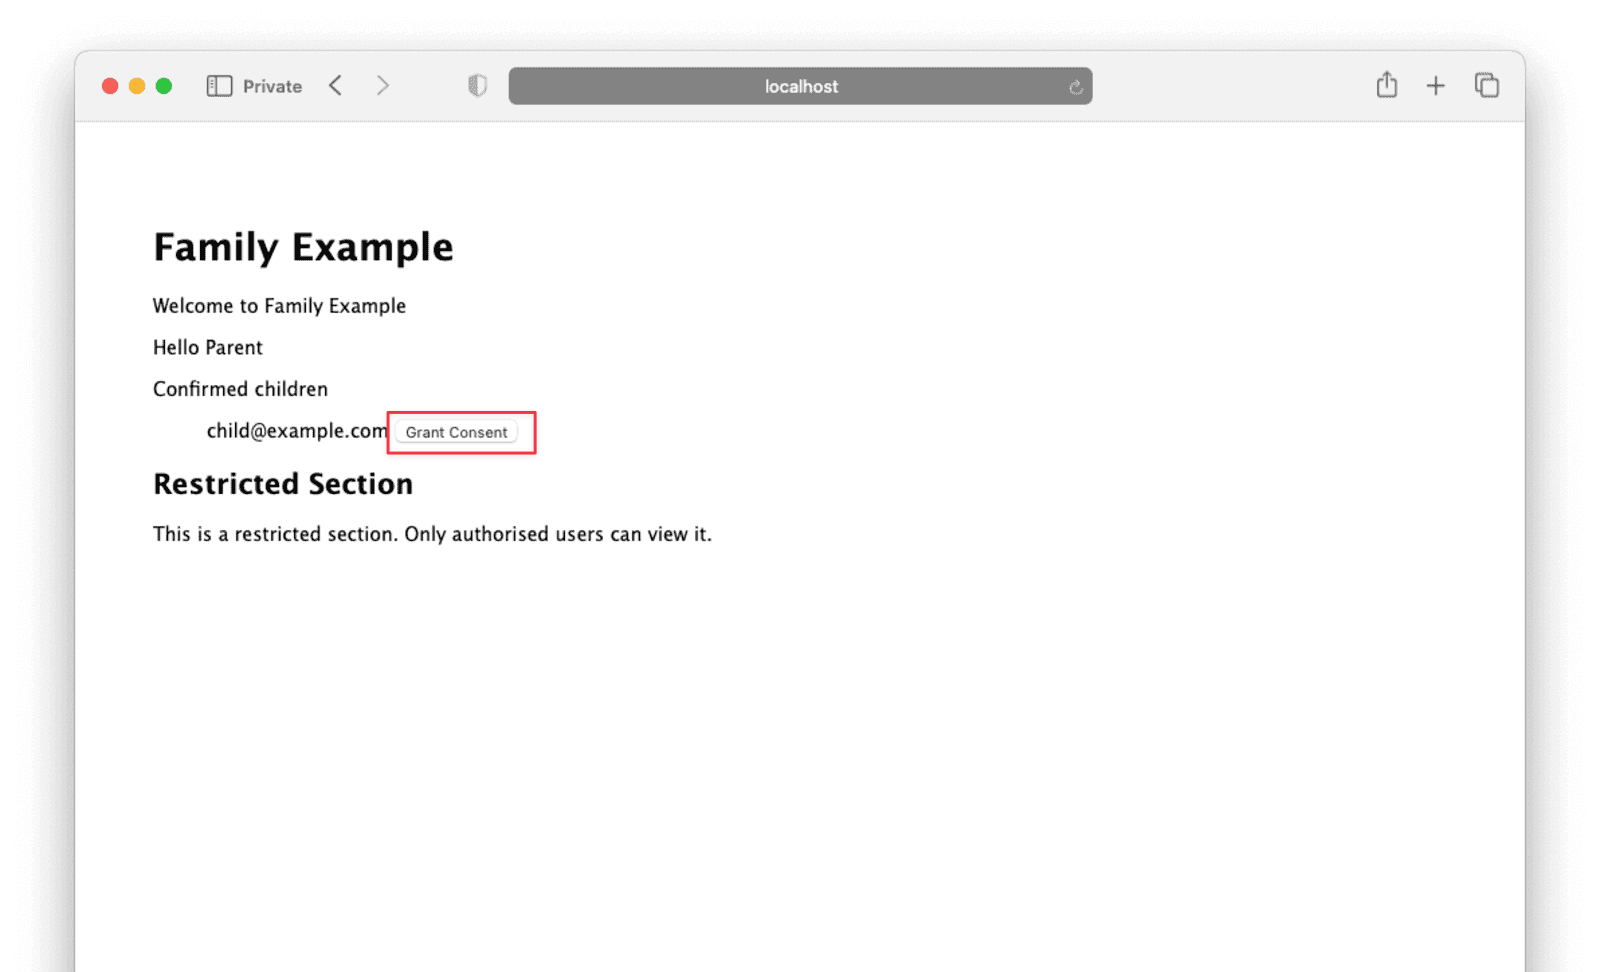
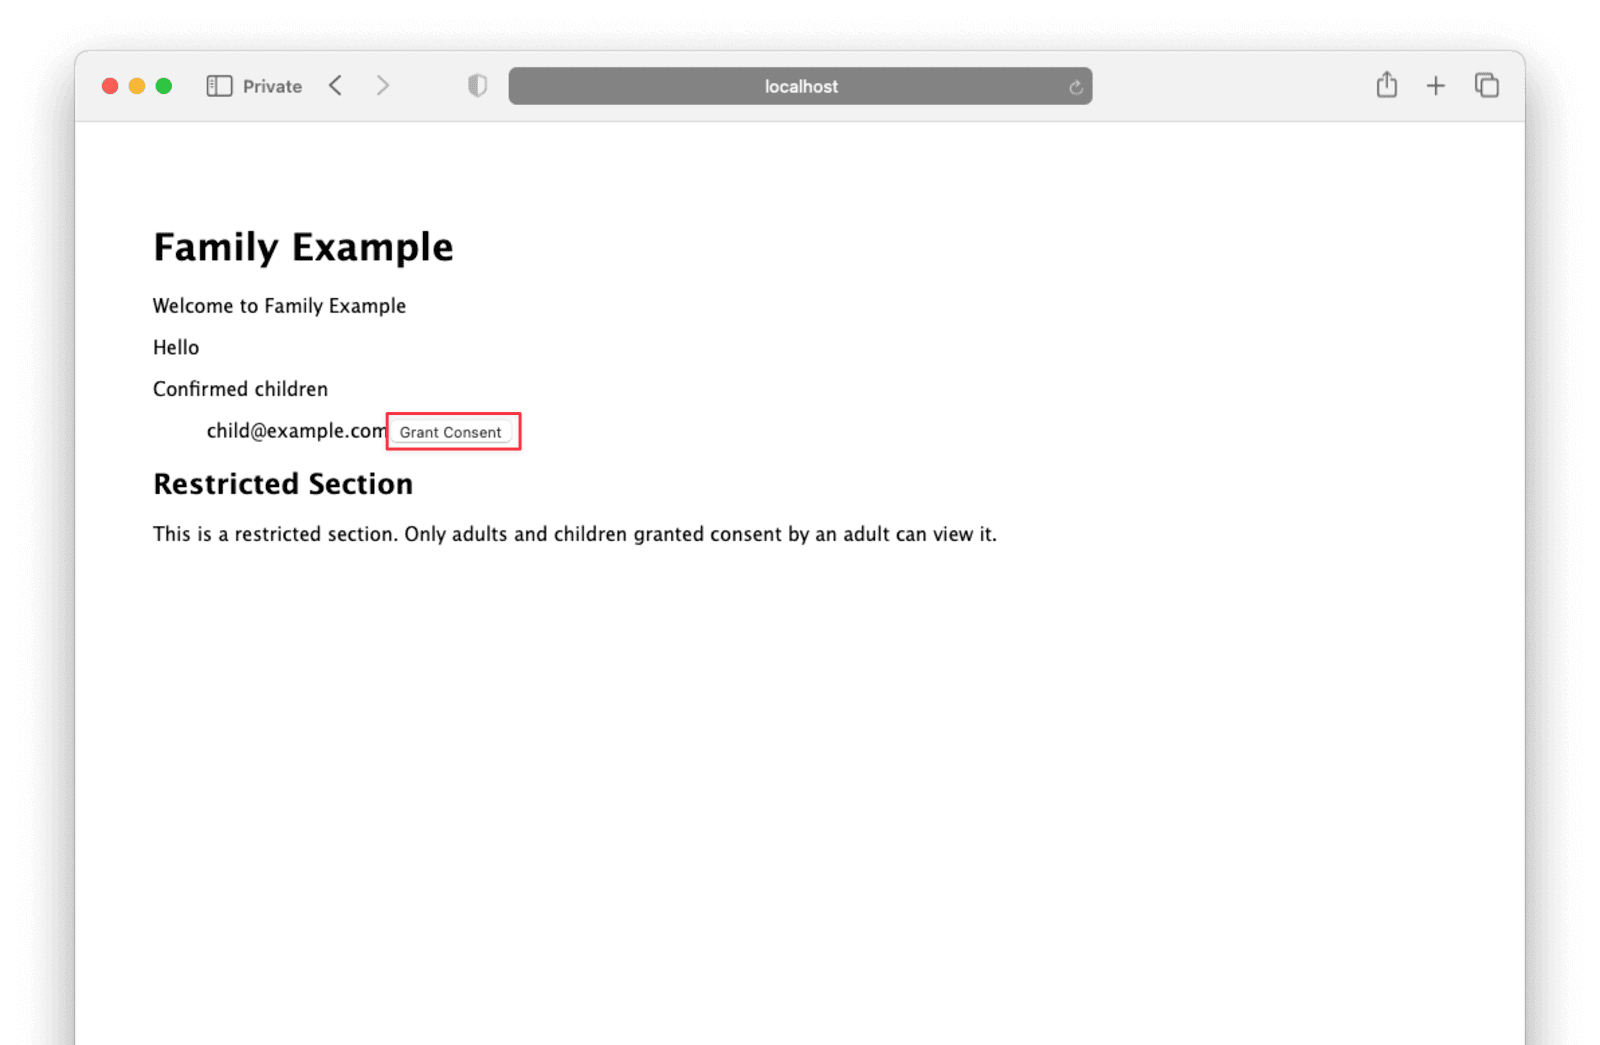
text updates

diff --git a/site/_posts/2023-02-28-family-api.md b/site/_posts/2023-02-28-family-api.md
@@ -8,13 +8,30 @@ tags: client-node tutorial tutorial-express tutorial-node
 excerpt_separator: "<!--more-->"
 ---
 
-In this tutorial, you will build a basic Node.js + [Express](http://expressjs.com) web application which grants conditional access to users in a family structure. Specifically, a parent user will be able to grant access to child users to restricted areas of an application.  
+In this tutorial, you'll build a basic Node.js + [Express](http://expressjs.com) web application which grants conditional access to users in a family structure. Specifically, an adult user will be able to grant access to child users to restricted areas of an application.  
 
 <!--more-->
 
 The application itself is very simple: it will let users sign up via FusionAuth, allow them to set grant consent for children in their family to access certain features of an application, and allow them to update those consents at any time. With these basics in place, you'll see how FusionAuth works and how it can extend the application to do whatever you need. You can also [skip ahead and view the code](https://github.com/ritza-co/fusionauth-family-api-example/tree/main/app). Note that there is configuration of FusionAuth needed, as detailed in this guide, so you will need to complete that before running the code.
 
-You can also use [these kickstart files](https://github.com/ritza-co/fusionauth-family-api-example/tree/main/kickstart) to automatically handle the configuration of FusionAuth. You can find more information regarding kickstart files [here](https://fusionauth.io/docs/v1/tech/installation-guide/docker#kickstart)
+You can also use [these kickstart files](https://github.com/ritza-co/fusionauth-family-api-example/tree/main/kickstart) to automatically handle the configuration of FusionAuth. You can find more information regarding kickstart files [here](https://fusionauth.io/docs/v1/tech/installation-guide/docker#kickstart).
+
+### An Overview of the Family and Consent APIs
+
+You will use 3 main FusionAuth APIs in this tutorial:
+
+- The [Family API](https://fusionauth.io/docs/v1/tech/apis/families) lets you create and manage families, and assign users to them.
+- The [Consent API](https://fusionauth.io/docs/v1/tech/apis/consents) lets you manage types of consents available in your application.
+- The [UserConsent API](https://fusionauth.io/docs/v1/tech/apis/consents#grant-a-user-consent) lets you manage consents for a specific user.
+
+Families are a way to group users into a family and assign the family members roles within that family. There are 3 main roles: Adult, Teen, and Child.
+
+Consents are a definition of a permission that can be given to a User. They capture meta data about a permission, what it is and who it can be given to. They can be thought of as templates to describe a consent type.
+
+UserConsents are instances of Consents applied to specific users. When a user is granted a consent, a user to consent mapping object is created. That object is the UserConsent. Things like who granted the consent to a user, when it was granted, and if the consent is active or deactivated on that particular user are recorded in UserConsents.
+
+Family groups and roles by themselves don't automatically confer any access privileges or restrictions to their members. However, by combining the structure and roles from the Family API, the Consent and UserConsent APIs, along with some custom glue logic, a fully fledged permissions system can be created with FusionAuth.
+
 
 ## Prerequisites
 
@@ -38,27 +55,12 @@ docker-compose up
 
 Note that this uses a public `.env` file containing hard-coded database passwords and is not suitable for production use.
 
-### An Overview of the Family and Consent APIs
-
-You will use 3 main FusionAuth APIs in this tutorial:
-
-- The [Family API](https://fusionauth.io/docs/v1/tech/apis/families) lets you create and manage families, and assign users to them.
-- The [Consent API](https://fusionauth.io/docs/v1/tech/apis/consents) lets you manage types of consents available in your application.
-- The [UserConsent API](https://fusionauth.io/docs/v1/tech/apis/consents#grant-a-user-consent) lets you manage consents for a specific user.
-
-Families are a way to group users into a family and assign the family members roles within that family. There are 3 main roles: Adult, Teen, and Child.
-
-Consents are a definition of a permission that can be given to a User. They capture meta data about a permission, what it is and who it can be given to. They can be thought of templates to describe a consent type.
-
-UserConsents are instances of Consents applied to specific users. When a user is granted a consent, a user to consent mapping object is created. That object is the UserConsent. Things like who granted the consent to a user, when it was granted, and if the consent is active or deactivated on that particular user are recored in UserConsents.
-
-Family groups and roles by themselves don't automatically confer any access privileges or restrictions to their members. However, by combining the structure and roles from the Family API, the Consent and UserConsent APIs, along with some custom glue logic, a fully fledged permissions system can be created with FusionAuth.
 
 ### Configuring FusionAuth
 
 FusionAuth should now be running and reachable at `http://localhost:9011`, if you've installed it locally. The first time you visit, you'll be prompted to set up an admin user and password. Once you've done this, you'll be prompted to complete three more setup steps, as shown below.
 
-{% include _image.liquid src="/assets/img/blogs/family-api/family-api-initial-setup.png" alt="FusionAuth prompts us with the setup steps that you need to complete." class="img-fluid" figure=false %}
+{% include _image.liquid src="/assets/img/blogs/family-api/family-api-initial-setup.png" alt="FusionAuth prompts you with the setup steps that you need to complete." class="img-fluid" figure=false %}
 
 You can skip step **#3** in this tutorial, but sending emails (to verify email addresses and do password resets) is a vital part of FusionAuth running in production, so you'll want to do that when you go live.
 
@@ -90,7 +92,7 @@ Following the principle of least privilege, you can restrict the permissions for
 
 The application will have two users: a parent user and a child user. The parent user will be able to grant consent for the child user to access certain features of the application.
 
-Let's create the parent user first. Navigate to "Users" and click the "Add" button. Select a "Tenant" and supply an email address. Untoggle the "Send email to set up password" switch to directly supply a password. For display purposes, provide a "First Name". A user must be at least 21 years old in order to be designated as a family owner, so supply an appropriate "Birthdate" as well. This requirement can be modified in the [tenant configuration](https://fusionauth.io/docs/v1/tech/core-concepts/tenants#family).
+Let's create the parent user first. Navigate to "Users" and click the "Add" button. Select a "Tenant" and supply an email address. Toggle the "Send email to set up password" switch to directly supply a password. For display purposes, provide a "First Name". A user must be at least 21 years old in order to be designated as a family owner, so supply an appropriate "Birthdate" as well. This requirement can be modified in the [tenant configuration](https://fusionauth.io/docs/v1/tech/core-concepts/tenants#family).
 
 {% include _image.liquid src="/assets/img/blogs/family-api/family-api-parent-user.png" alt="Creating the parent user." class="img-fluid" figure=false %}
 
@@ -98,7 +100,7 @@ Repeat this process for the child user. The child user's "Birthdate" can be anyt
 
 {% include _image.liquid src="/assets/img/blogs/family-api/family-api-user-id.png" alt="The unique Id of the created user" class="img-fluid" figure=false %}
 
-Then, register both users to the application. Click the "Manage" button for each user and click the "Add registration" button. Select the application from the dropdown. You can leave out the other information.
+Then, register both users to the application. Click the "Manage" button for each user and then click the "Add registration" button. Select the application from the dropdown. You can leave out the other information.
 
 {% include _image.liquid src="/assets/img/blogs/family-api/family-api-registration-select-application.png" alt="Selecting the application to register a user to." class="img-fluid" figure=false %}
 
@@ -121,7 +123,7 @@ curl -X POST <YOUR_FUSIONAUTH_URL>/api/user/family \
 
 Here, `<YOUR_FUSIONAUTH_URL>` is your fully-qualified domain name, including the protocol, for example `https://local.fusionauth.io`. `<YOUR_API_KEY>` is the key that you created in the "Setting up a FusionAuth API key" section, and `<PARENT_USER_ID>` is the "User Id" of the parent user that you created earlier. Record the `Id` value in the response JSON that is returned upon executing the request. This is the Id of the newly created family in FusionAuth. You will need the Id to add the child user to this family.
 
-The request to add the child user to the family is similar, but has a few key differences. First, since the family already exists, you will use a `PUT` request rather than a `POST` request. Second, you need to supply the unique Id for the family `<YOUR_FAMILY_ID>` in the request's URL and you also need to supply the child `<CHILD_USER_ID>` which is "User Id" of the child noted earlier. Finally, the `owner` and `role` values will be different.
+The request to add the child user to the family is similar, but has a few key differences. First, since the family already exists, you will use a `PUT` request rather than a `POST` request. Second, you need to supply the unique Id for the family `<YOUR_FAMILY_ID>` in the request's URL and you also need to supply the child `<CHILD_USER_ID>` which is the "User Id" of the child created earlier. Finally, the `owner` and `role` values will be different.
 
 Execute the following command in your terminal.
 
@@ -142,7 +144,7 @@ curl -X PUT <YOUR_FUSIONAUTH_URL>/api/user/family/<YOUR_FAMILY_ID> \
 
 You are almost ready to build your custom application and leverage your FusionAuth configuration to enable permission-based access to your site. Now, you just have to add a [consent](https://fusionauth.io/docs/v1/tech/apis/consents#overview), which will enable the parent user to grant or revoke access to the child user.
 
-Navigate to "Settings" then "Consents" and click the "Add" button. Supply a "Name" for the consent. By default, the minimum age of self-consent is `13`, meaning any user aged `13` or older can grant themselve the consent without needing permission from a parent user. You can modify this value if you wish. For the purposes of this guide, just make sure this number is higher than the age of your child user. If you did not supply a "Birthdate" for your child user, you can leave this value as-is, since a blank "Birthdate" will cause a user's age to be calculated as `-1`.
+Navigate to "Settings" then "Consents" and click the "Add" button. Supply a "Name" for the consent. By default, the minimum age of self-consent is `13`, meaning any user aged `13` or older can grant themselves the consent without needing permission from an adult user. You can modify this value if you wish. For the purposes of this guide, just make sure this number is higher than the age of your child user. If you did not supply a "Birthdate" for your child user, you can leave this value as-is, since a blank "Birthdate" will cause a user's age to be calculated as `-1`.
 
 {% include _image.liquid src="/assets/img/blogs/family-api/family-api-add-consent.png" alt="Creating the consent" class="img-fluid" figure=false %}
 
@@ -173,7 +175,7 @@ If all went well, the server should start successfully, and you can visit `http:
 
 ## Building the application
 
-The application will have only one page apart from the FusionAuth login page. This page will dynamically display a list of children if the current user is a parent user, and a restricted section if the current user is either an adult or a child who has been granted permission to view it by an adult user in their family. For each child, there is a button to either grant or revoke consent, and thus access, to the restricted section. It will also have a login link that will redirect the user to the FusionAuth login page if they are not authenticated.
+The application will have only one page apart from the FusionAuth login page. This page will dynamically display a list of children if the current user is an adult user, and a restricted section if the current user is either an adult or a child who has been granted permission to view it by an adult user in their family. For each child, there is a button to either grant or revoke consent, and thus access, to the restricted section. It will also have a login link that will redirect the user to the FusionAuth login page if they are not authenticated.
 
 For the landing page view, add the following to `views/index.pug`. Note that the page uses data from a view model which you will populate in the home route later.
 
@@ -184,7 +186,7 @@ block content
   h1= title
   p Welcome to #{title}
 
-  - var clientId = 'a342d269-42dd-4909-a1a9-807601d63750'
+  - var clientId = '<YOUR_CLIENT_ID>'
   if user
     p Hello #{user.firstName}
     if family
@@ -212,16 +214,14 @@ block content
       h2 Restricted Section
       p This is a restricted section. Only adults and children granted consent by an adult can view it.
   else
-    a(href='http://localhost:9011/oauth2/authorize?client_id='+clientId+'&response_type=code&redirect_uri=http%3A%2F%2Flocalhost%3A3000%2Foauth-redirect&scope=offline_access&code_challenge='+challenge+'&code_challenge_method=S256') Login
+    a(href='<YOUR_FUSIONAUTH_URL>/oauth2/authorize?client_id='+clientId+'&response_type=code&redirect_uri=<REDIRECT_URL>&scope=offline_access&code_challenge='+challenge+'&code_challenge_method=S256') Login
 ```
 
 Replace `<YOUR_CLIENT_ID>` with the Id of your FusionAuth application and `<YOUR_FUSIONAUTH_URL>` with the fully-qualified URL of your FusionAuth instance, including the protocol. For example, `<YOUR_CLIENT_ID>` might look like `7d31ada6-27b4-461e-bf8a-f642aacf5775` and `<YOUR_FUSIONAUTH_URL>` might look like `https://local.fusionauth.io`.
 
 Replace the placeholder `<REDIRECT_URL>` with the URL encoded redirect URL of your application, with `/oauth-redirect` appended. For example, if your application is running on `http://localhost:3000`, then the redirect URL should be `http%3A%2F%2Flocalhost%3A3000%2Foauth-redirect`.
 
-{% include _image.liquid src="/assets/img/blogs/family-api/family-api-landing-page.png" alt="Landing page" class="img-fluid" figure=false %}
-
-You can use the `express-session` middleware package to facilitate the storage and usage of session information in your app. In particular, you'll store the Proof Key for Code Exchange (PKCE) data needed to securely exchange FusionAuth generated Authenication Codes for a JWT. In the `app.js` file, add the following line at the top:
+You can use the `express-session` middleware package to facilitate the storage and usage of session information in your app. In particular, you'll store the Proof Key for Code Exchange (PKCE) data needed to securely exchange FusionAuth generated Authentication Codes for a JWT. In the `app.js` file, add the following line at the top:
 
 ```js
 var expressSession = require('express-session');
@@ -262,28 +262,28 @@ After authentication, FusionAuth will redirect to the callback route you provide
 
 ```js
 router.get('/oauth-redirect', async function (req, res, next) {
-    try {
-        const response = await client.exchangeOAuthCodeForAccessTokenUsingPKCE(
-            req.query.code,
-            clientId,
-            clientSecret,
-            'http://localhost:3000/oauth-redirect',
-            req.session.verifier
-        );
+  try {
+    const response = await client.exchangeOAuthCodeForAccessTokenUsingPKCE(
+      req.query.code,
+      clientId,
+      clientSecret,
+      'http://localhost:3000/oauth-redirect',
+      req.session.verifier
+    );
 
-        req.session.state = req.query.state;
+    req.session.state = req.query.state;
 
-        const userResponse = await client.retrieveUserUsingJWT(
-            response.response.access_token
-        );
+    const userResponse = await client.retrieveUserUsingJWT(
+      response.response.access_token
+    );
 
-        req.session.user = userResponse.response.user;
+    req.session.user = userResponse.response.user;
 
-        res.redirect(302, '/');
-    } catch (err) {
-        console.log('in error');
-        console.error(JSON.stringify(err));
-    }
+    res.redirect(302, '/');
+  } catch (err) {
+    console.log('in error');
+    console.error(JSON.stringify(err));
+  }
 });
 ```
 
@@ -291,7 +291,7 @@ This route exchanges the `Authentication Code` returned from FusionAuth, along w
 
 ## Add Home Route
 
-The Home route has a bit of logic needed. Essentially, the logic required is:
+The home route has a bit of logic needed. Essentially, the logic required is:
 
 1. Get the family of the logged in user.
 2. Find all the child members of the family.
@@ -339,9 +339,9 @@ router.get('/', async function (req, res, next) {
 });
 ```
 
-The `familyMembers` array is a filtered version of the entire family that only contains children, and the currently logged in adult. In other words, remove any other adults from the family, as you won't need to set consents for them, but do want to keep the family role information for the currently logged in adult. Note that, when building the `familyMembers` array, the filter criterion is `!== 'Adult'`, not `=== 'Child'` as you might expect. This is because FusionAuth also allows users to be designated as [`Teen`](https://fusionauth.io/docs/v1/tech/apis/families#add-a-user-to-a-family) to allow for further granularity when assiging roles in a family.
+The `familyMembers` array is a filtered version of the entire family that only contains children, and the currently logged in adult. In other words, any other adults from the family are removed, as you won't need to set consents for them, but you do want to keep the family role information for the currently logged in adult. Note that, when building the `familyMembers` array, the filter criterion is `!== 'Adult'`, not `=== 'Child'` as you might expect. This is because FusionAuth also allows users to be designated as [`Teen`](https://fusionauth.io/docs/v1/tech/apis/families#add-a-user-to-a-family) to allow for further granularity when assigning roles in a family.
 
-The above code makes use of several named functions, which you now have to implement. The first function to implement is `getUserProfiles()`, which gathers all user profiles in the family. This is needed because the [Family API call](https://fusionauth.io/docs/v1/tech/apis/families#retrieve-a-family) only returns a subset of each family member's information. We'd like to get the `usernames`/`emails` as well, which are available through the `client.retrieveUser` function.
+The above code makes use of several named functions, which you now have to implement. The first function to implement is `getUserProfiles()`, which gathers all user profiles in the family. This is needed because the [Family API call](https://fusionauth.io/docs/v1/tech/apis/families#retrieve-a-family) only returns a subset of each family member's information. You'd need to get the `usernames`/`emails` as well, which are available through the `client.retrieveUser` function.
 
 ```js
 async function getUserProfiles(familyUsers) {
@@ -455,13 +455,13 @@ router.post('/change-consent-status', async function (req, res, next) {
 });
 ```
 
-The route performs a quite a few tasks:
+The route performs quite a few tasks:
 
 1. Checks if there is a logged in user. If not, the user is redirected to the login page. 
-1. Checks if the logged in user is an adult in a family.
-1. Checks if the logged in user and the child user to grant or revoke the consent to is in the same family
-1. Checks if there is already a `UserConsent` added for the child. If not, a new `UserConsent` is created, and assigned to the child, using the `consentId` from the consent created in the FusionAuth admin portal earlier.
-1. Updates the `UserConsent` to the desired status. 
+2. Checks if the logged in user is an adult in a family.
+3. Checks if the logged in user and the child user to grant or revoke the consent to is in the same family.
+4. Checks if there is already a `UserConsent` added for the child. If not, a new `UserConsent` is created, and assigned to the child, using the `consentId` from the consent created in the FusionAuth admin portal earlier.
+5. Updates the `UserConsent` to the desired status. 
 
 ## Testing
 
@@ -489,7 +489,7 @@ Close the private window and open a new one. Login as the child user again. This
 
 ## Where to next with Family API and Consents?
 
-That’s the basics of the Express Family API example app done. The app has a fully featured authentication system, along with parental controls, without the hassle and possible risks of implementing all of that code yourself. The complete code is hosted on GitHub [here](https://github.com/ritza-co/fusionauth-family-api-example).
+That’s the basics of this Express Family API example app done. The app has a fully featured authentication system, along with parental controls, without the hassle and possible risks of implementing all of that code yourself. The complete code is hosted on GitHub [here](https://github.com/ritza-co/fusionauth-family-api-example).
 
 Of course, you would need to add more interesting features to this app for it to be useful. But being able to take care of the authentication, parental controls, consents, and general security with just a small amount of configuration code leaves a lot more time for your application's more useful and critical features.
 
